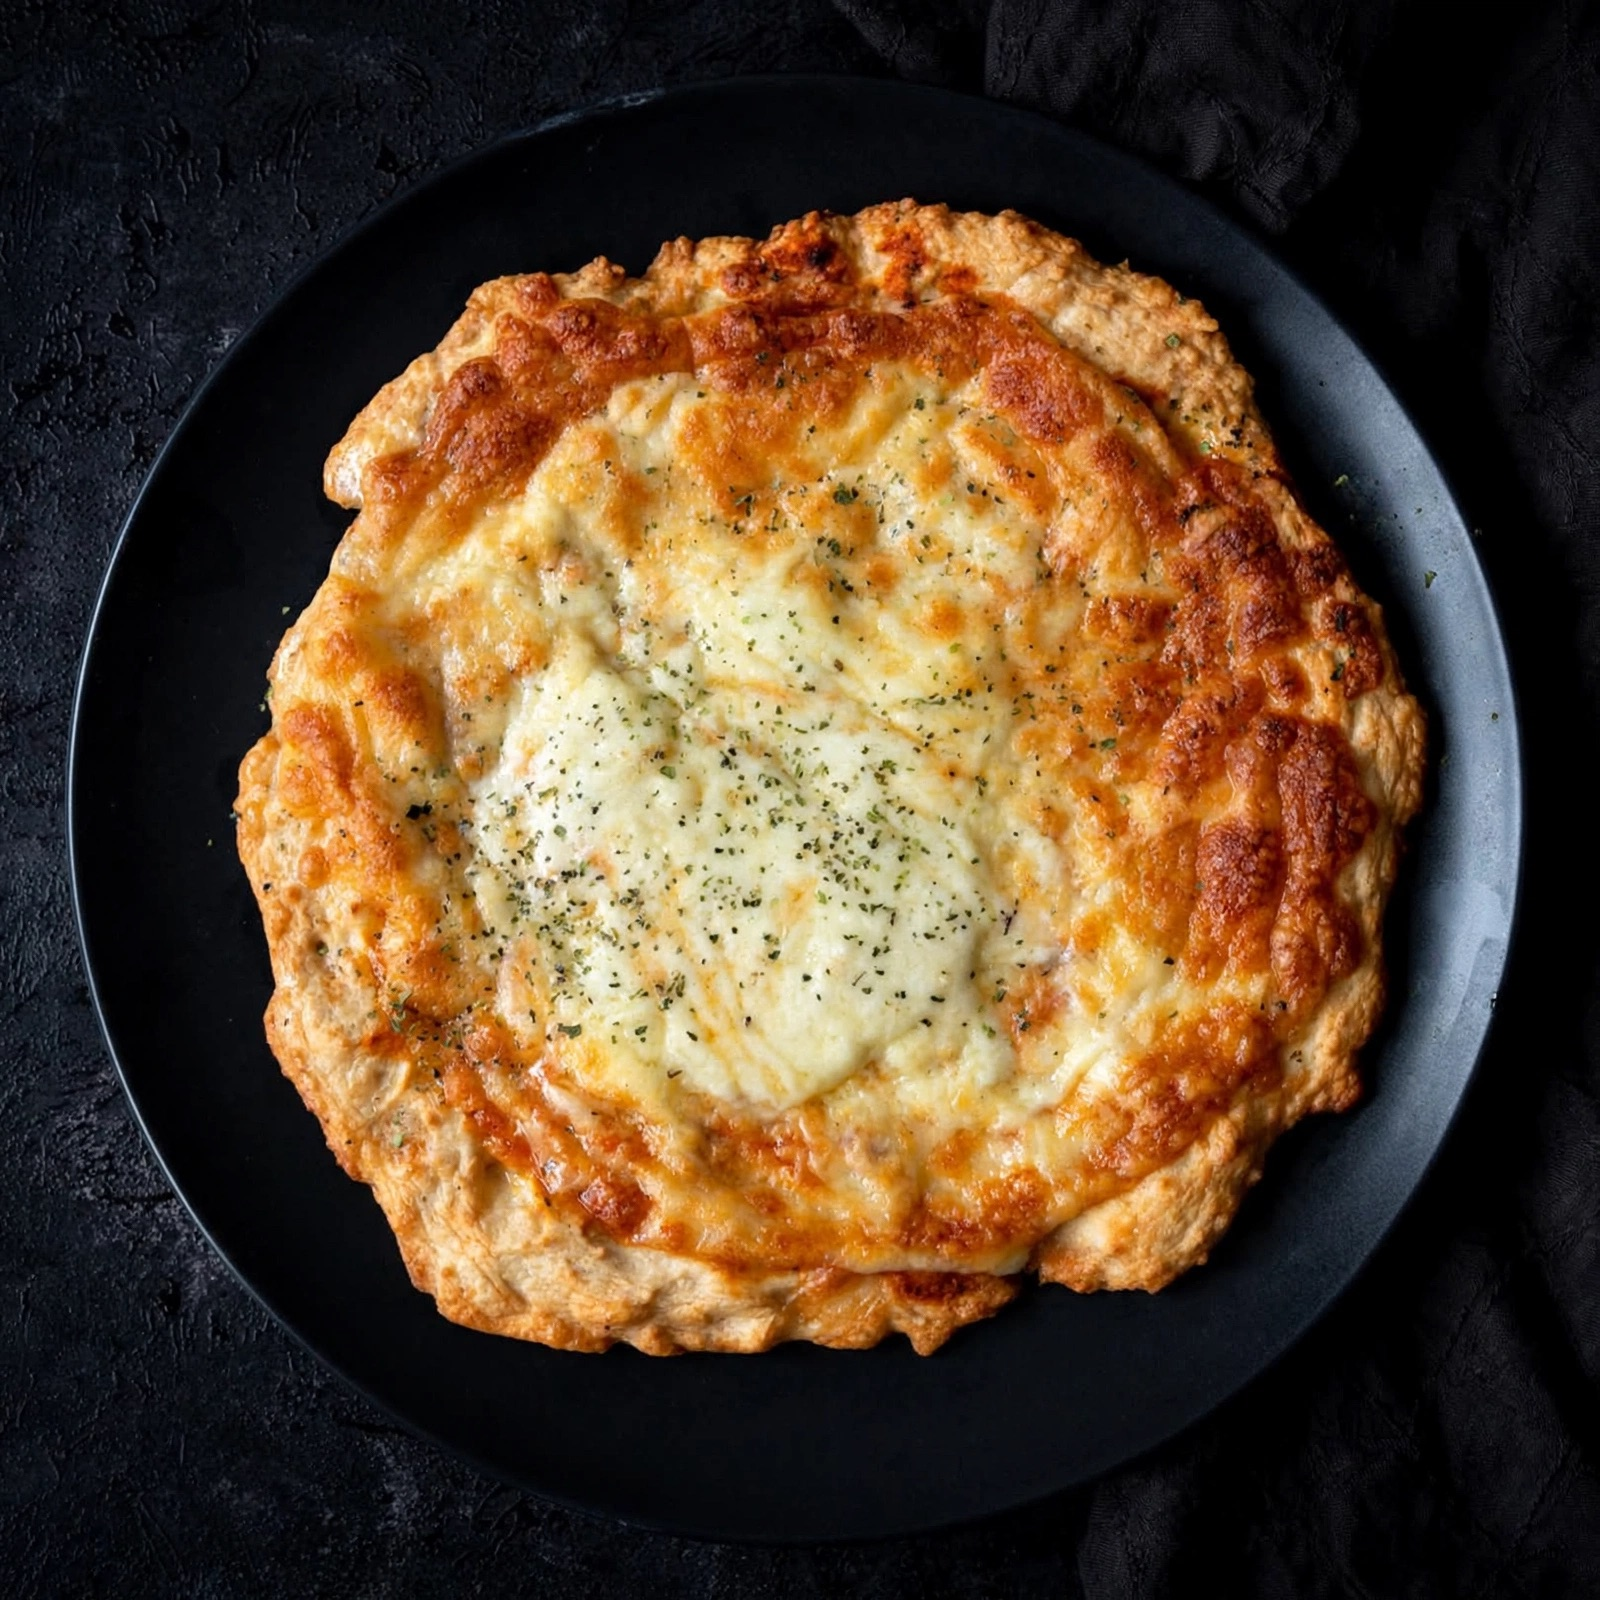
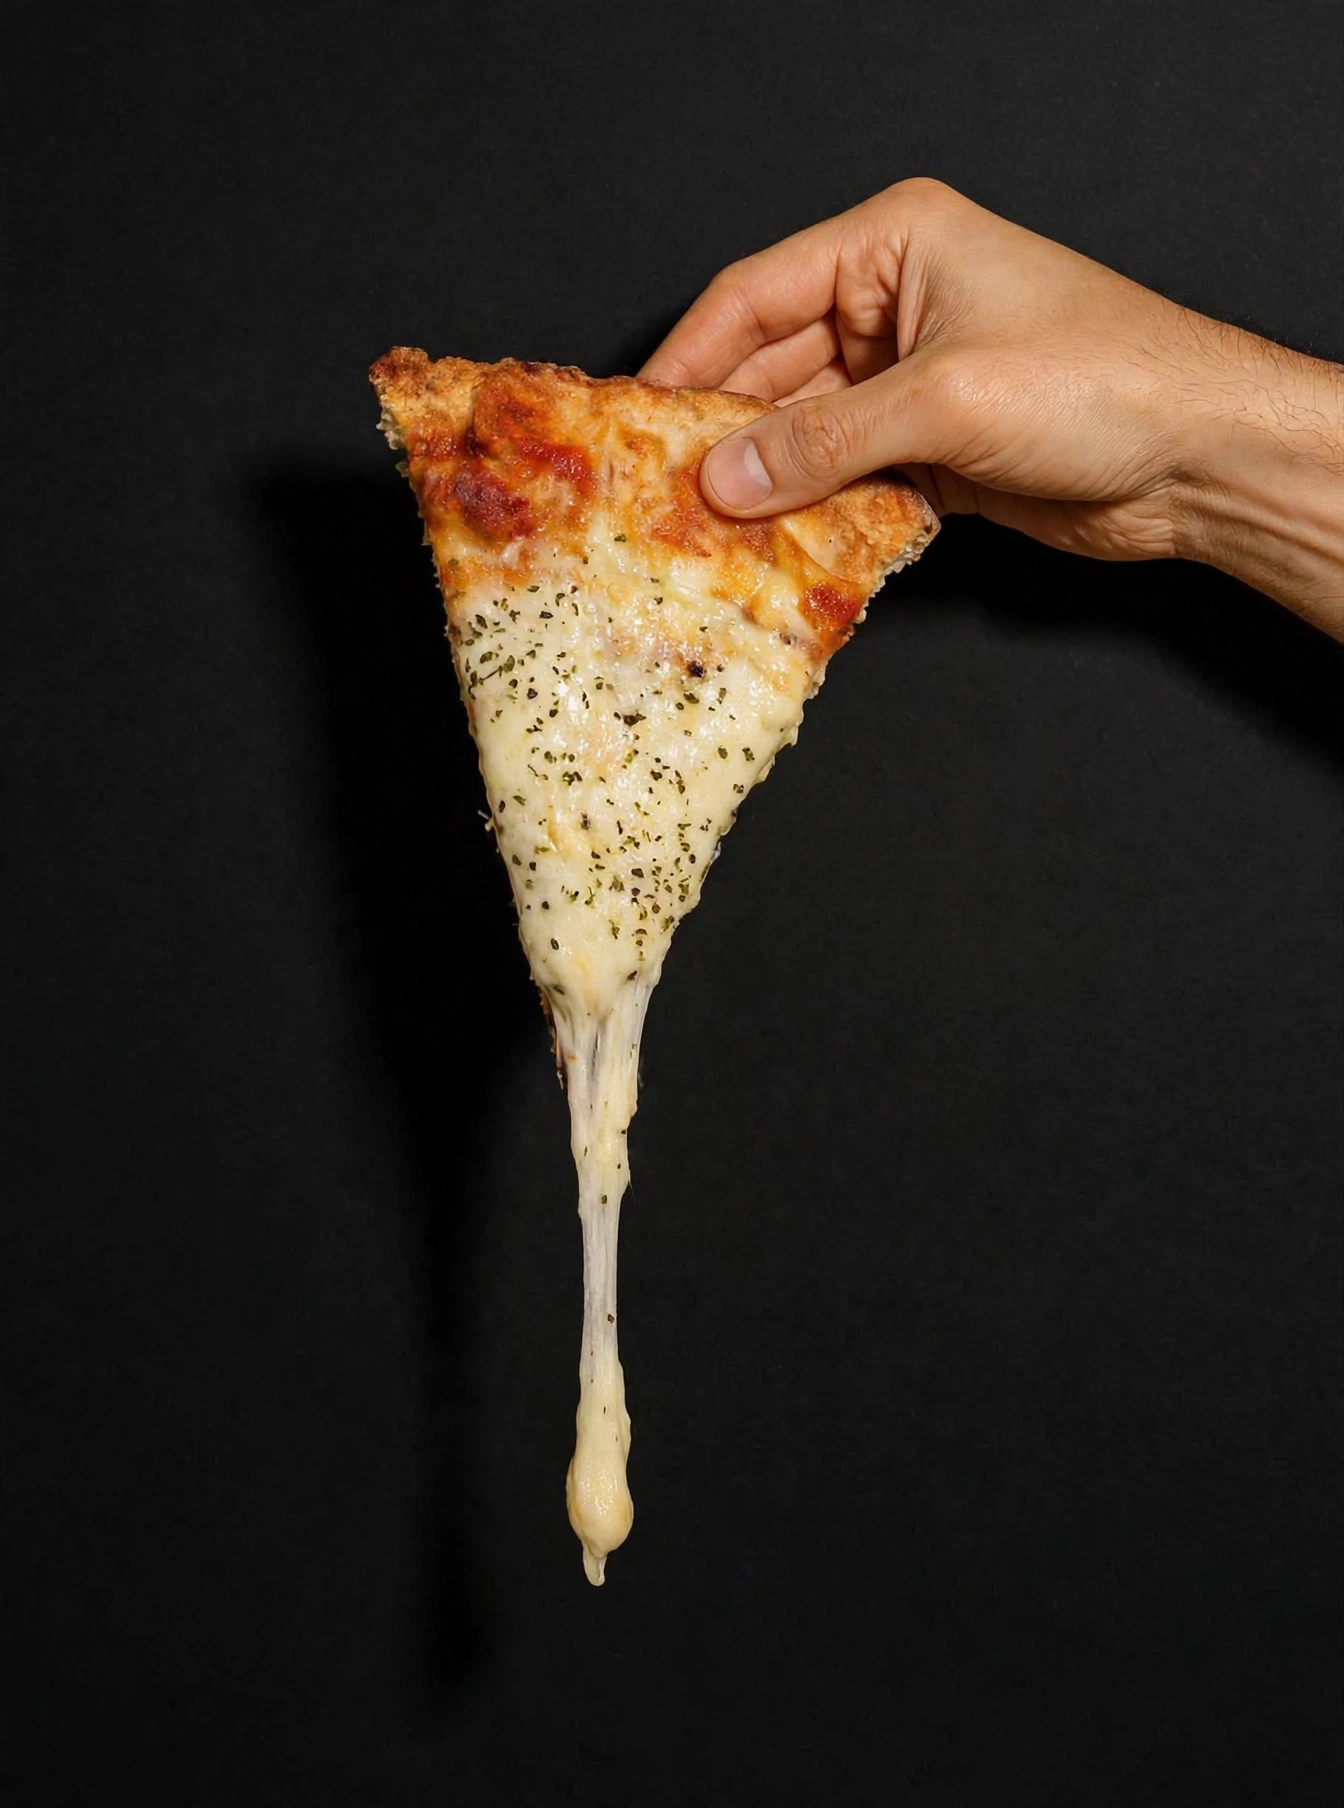
Add files via upload

diff --git a/index.html b/index.html
@@ -3,7 +3,7 @@
 <head>
 <meta charset="UTF-8">
 <meta name="viewport" content="width=device-width, initial-scale=1.0">
-<title>Fina Protein Lab — PIZZA / 101 · Pizza keto alta en proteína</title>
+<title>Fina Protein Lab — PIZZA / 001 · Pizza keto alta en proteína</title>
 <link rel="preconnect" href="https://fonts.googleapis.com">
 <link rel="preconnect" href="https://fonts.gstatic.com" crossorigin>
 <link href="https://fonts.googleapis.com/css2?family=Archivo:wght@400;500;600;700;800;900&family=IBM+Plex+Mono:wght@400;500;600;700&family=Inter:wght@400;500;600&display=swap" rel="stylesheet">
@@ -13,8 +13,8 @@
     --charcoal-2:#3B332D;
     --cream:#F5EEE1;
     --cream-2:#EFE6D3;
-    --red:#C1502E;
-    --red-dark:#9C3E24;
+    --red:#C6402A;
+    --red-dark:#9E3322;
     --grey-mid:#8C8177;
     --line:#E4D8C3;
   }
@@ -136,23 +136,26 @@
 
   /* NUTRITION STATS */
   .nutri{background:var(--charcoal); color:var(--cream);}
-  .nutri-grid{display:grid; grid-template-columns:repeat(6,1fr); gap:2px; background:rgba(245,238,225,0.1); border-radius:24px; overflow:hidden;}
-  .nutri-cell{background:var(--charcoal); padding:32px 26px; position:relative;}
-  .nutri-cell.hero{grid-column:span 3; background:var(--red); padding:38px 30px;}
-  .nutri-cell.low{grid-column:span 3; background:rgba(245,238,225,0.06); border:1.5px solid rgba(193,80,46,0.55);}
-  .nutri-cell.small{grid-column:span 2;}
+  .nutri-hero-row{display:grid; grid-template-columns:1fr 1fr; gap:2px; background:rgba(245,238,225,0.1); border-radius:20px 20px 0 0; overflow:hidden;}
+  .nutri-mini-row{display:grid; grid-template-columns:repeat(3,1fr); gap:2px; background:rgba(245,238,225,0.1); border-radius:0 0 20px 20px; overflow:hidden; margin-top:2px;}
+  .nutri-cell{background:var(--charcoal); padding:30px 24px; position:relative;}
+  .nutri-cell.hero{background:var(--red); padding:34px 26px;}
+  .nutri-cell.low{background:rgba(245,238,225,0.06); border:1.5px solid rgba(193,80,46,0.55);}
+  .nutri-cell.small{padding:22px 16px; text-align:center;}
   .nutri-cell .tag{
     display:inline-block; font-size:10.5px; font-weight:700; text-transform:uppercase; letter-spacing:0.06em;
     padding:4px 10px; border-radius:100px; margin-bottom:14px;
   }
   .nutri-cell.hero .tag{background:rgba(245,238,225,0.22); color:var(--cream);}
   .nutri-cell.low .tag{background:rgba(193,80,46,0.16); color:var(--red);}
-  .nutri-cell .n{font-family:'IBM Plex Mono'; font-size:34px; font-weight:700; line-height:1;}
-  .nutri-cell.hero .n{font-size:52px;}
-  .nutri-cell.low .n{font-size:40px; color:var(--cream);}
+  .nutri-cell .n{font-family:'IBM Plex Mono'; font-size:32px; font-weight:700; line-height:1;}
+  .nutri-cell.hero .n{font-size:46px;}
+  .nutri-cell.low .n{font-size:38px; color:var(--cream);}
+  .nutri-cell.small .n{font-size:22px;}
   .nutri-cell .l{font-size:12px; text-transform:uppercase; letter-spacing:0.06em; color:rgba(245,238,225,0.55); margin-top:10px;}
   .nutri-cell.hero .l{color:rgba(245,238,225,0.88); font-size:13px;}
   .nutri-cell.low .l{color:rgba(245,238,225,0.7);}
+  .nutri-cell.small .l{font-size:10.5px; margin-top:6px;}
   .nutri-foot{font-size:12px; color:rgba(245,238,225,0.45); margin-top:22px; font-family:'IBM Plex Mono';}
 
   /* INGREDIENTES */
@@ -165,16 +168,18 @@
   .ing-icon svg{width:22px; height:22px;}
   .ing-item h4{font-size:15.5px; font-weight:700;}
   .ing-item p{font-size:13px; color:var(--grey-mid); margin-top:2px;}
+  .ing-dark{background:var(--charcoal); color:var(--cream);}
   .ing-chips{display:flex; flex-wrap:wrap; gap:10px;}
   .ing-chip{
-    background:var(--cream-2); border-radius:100px; padding:10px 16px;
-    font-size:13.5px; font-weight:600;
+    background:rgba(245,238,225,0.09); border:1px solid rgba(245,238,225,0.14);
+    border-radius:100px; padding:10px 16px;
+    font-size:13.5px; font-weight:600; color:var(--cream);
   }
   .allergen-note{
     display:flex; align-items:center; gap:8px;
-    color:var(--grey-mid); margin-top:20px; font-size:12px; font-weight:500;
+    color:rgba(245,238,225,0.5); margin-top:20px; font-size:12px; font-weight:500;
   }
-  .allergen-note svg{flex-shrink:0; opacity:0.6;}
+  .allergen-note svg{flex-shrink:0; opacity:0.7;}
 
   /* SABORES */
   .flavor-grid{display:grid; grid-template-columns:repeat(4,1fr); gap:18px;}
@@ -251,8 +256,13 @@
   .faq-a p{padding-bottom:22px; font-size:14px; color:var(--grey-mid); line-height:1.6; max-width:600px;}
 
   /* CTA FINAL */
-  .cta-final{background:var(--charcoal); color:var(--cream); border-radius:32px; text-align:center; padding:52px 40px; position:relative; overflow:hidden;}
-  .cta-final .stamp{position:absolute; top:-30px; left:-30px; width:150px; height:150px; opacity:0.9;}
+  .cta-final{
+    background:
+      linear-gradient(180deg, rgba(46,38,32,0.88), rgba(46,38,32,0.94)),
+      url('pizza-foto-cta.jpg') center 25% / cover no-repeat, var(--charcoal);
+    color:var(--cream); border-radius:32px; text-align:center; padding:64px 40px; position:relative;
+  }
+  .cta-final .stamp{position:absolute; top:-16px; left:-16px; width:130px; height:130px; opacity:0.95;}
   .cta-final h2{font-size:clamp(30px,4vw,44px); font-weight:800; margin-bottom:14px; letter-spacing:-0.02em;}
   .cta-final p{color:rgba(245,238,225,0.62); margin-bottom:30px; font-size:15.5px;}
 
@@ -267,10 +277,7 @@
 
   @media (max-width: 900px){
     .hero-grid{grid-template-columns:1fr;}
-    .hero-photo{order:-1; max-width:340px; margin:0 auto;}
-    .nutri-grid{grid-template-columns:repeat(2,1fr);}
-    .nutri-cell.hero, .nutri-cell.low{grid-column:span 2;}
-    .nutri-cell.small{grid-column:span 1;}
+    .hero-photo{max-width:280px; margin:0 auto;}
     .ing-grid{grid-template-columns:1fr;}
     .flavor-grid{grid-template-columns:repeat(2,1fr);}
     .compare-grid{grid-template-columns:1fr; gap:36px;}
@@ -288,13 +295,13 @@
   .marquee-track{
     display:inline-flex; align-items:center;
     animation:marquee 22s linear infinite;
-    padding:9px 0;
+    padding:6px 0;
   }
   .marquee-track span{
-    font-size:12.5px; font-weight:700; text-transform:uppercase; letter-spacing:0.06em;
-    padding:0 28px; display:inline-flex; align-items:center; gap:10px;
+    font-size:10.5px; font-weight:700; text-transform:uppercase; letter-spacing:0.05em;
+    padding:0 22px; display:inline-flex; align-items:center; gap:8px; opacity:0.92;
   }
-  .marquee-track span::after{content:'✦'; opacity:0.6; margin-left:28px;}
+  .marquee-track span::after{content:'✦'; opacity:0.5; margin-left:22px; font-size:9px;}
   @keyframes marquee{
     from{transform:translateX(0);}
     to{transform:translateX(-50%);}
@@ -306,15 +313,17 @@
   /* COUNTDOWN */
   .countdown-bar{
     background:var(--charcoal); color:var(--cream);
-    text-align:center; padding:11px 20px;
-    font-size:12.5px; font-weight:600;
+    text-align:center; padding:13px 20px;
+    font-size:14px; font-weight:600;
+    border-bottom:1px solid rgba(245,238,225,0.1);
   }
   .countdown-bar b{
     font-family:'IBM Plex Mono'; font-weight:700; color:var(--red);
-    letter-spacing:0.02em;
+    letter-spacing:0.02em; font-size:14.5px;
   }
   @media (max-width:600px){
-    .countdown-bar{font-size:11.5px; padding:10px 14px;}
+    .countdown-bar{font-size:12.5px; padding:11px 14px;}
+    .countdown-bar b{font-size:13px;}
   }
 </style>
 </head>
@@ -333,15 +342,14 @@
   </div>
 </div>
 
-<div class="countdown-bar" id="countdown-bar">Pedí antes de <b id="countdown-time">—</b> y recibilo el miércoles <b id="delivery-date">—</b></div>
-
 <header>
+  <div class="countdown-bar" id="countdown-bar">Pedí antes de <b id="countdown-time">—</b> y recibilo el miércoles <b id="delivery-date">—</b></div>
   <div class="nav wrap">
     <div class="logo">
       <div class="mark">
-        <svg viewBox="0 0 24 24" fill="none"><path d="M12 3 L20 19 Q12 22 4 19 Z" fill="#F5EEE1"/><circle cx="12" cy="10" r="1.3" fill="#C1502E"/><circle cx="14.5" cy="14.5" r="1.3" fill="#C1502E"/><circle cx="9.5" cy="15" r="1.3" fill="#C1502E"/></svg>
+        <svg viewBox="0 0 24 24" fill="none"><path d="M12 3 L20 19 Q12 22 4 19 Z" fill="#F5EEE1"/><circle cx="12" cy="10" r="1.3" fill="#C6402A"/><circle cx="14.5" cy="14.5" r="1.3" fill="#C6402A"/><circle cx="9.5" cy="15" r="1.3" fill="#C6402A"/></svg>
       </div>
-      <div class="word">Fina Protein Lab<small>PIZZA / 101</small></div>
+      <div class="word">Fina Protein Lab<small>PIZZA / 001</small></div>
     </div>
     <nav class="navlinks">
       <a href="#nutricion">Macros</a>
@@ -357,7 +365,7 @@
   <section class="hero">
     <div class="wrap hero-grid">
       <div>
-        <div class="eyebrow"><span class="dot"></span>PIZZA / 101 · Keto · Alta en proteína</div>
+        <div class="eyebrow"><span class="dot"></span>PIZZA / 001 · Keto · Alta en proteína</div>
         <h1>Comé pizza.<br><span class="accent">Sin culpa.</span></h1>
         <p class="lead">Pizza formulada para rendir en tu plan: mucha proteína, pocos carbs e ingredientes que todos conocemos. Aproximadamente 450 calorías por pizza. La pizza que no tenés que justificar.</p>
         <div class="hero-ctas">
@@ -374,7 +382,7 @@
 
       <div class="hero-photo">
         <div class="photo-card">
-          <img src="pizza-foto-hero.jpg" alt="Fina Protein Lab — PIZZA / 101 recién horneada">
+          <img src="pizza-foto-hero.jpg" alt="Fina Protein Lab — PIZZA / 001 recién horneada">
           <div class="float-tag">
             <div>
               <div class="n">62g</div>
@@ -383,14 +391,14 @@
           </div>
         </div>
         <svg class="stamp" viewBox="0 0 200 200">
-          <circle cx="100" cy="100" r="92" fill="#C1502E"/>
+          <circle cx="100" cy="100" r="92" fill="#C6402A"/>
           <path id="circlePath" d="M 100,100 m -70,0 a 70,70 0 1,1 140,0 a 70,70 0 1,1 -140,0" fill="none"/>
           <text font-family="Archivo, sans-serif" font-size="13" font-weight="700" fill="#F5EEE1" letter-spacing="2.5">
             <textPath href="#circlePath" startOffset="0%">SIN CULPA · SIN CULPA · SIN CULPA · </textPath>
           </text>
           <circle cx="100" cy="100" r="34" fill="#F5EEE1"/>
           <g transform="translate(100,100) scale(1.7) translate(-12,-12)">
-            <path d="M12 3 L20 19 Q12 22 4 19 Z" fill="#C1502E"/>
+            <path d="M12 3 L20 19 Q12 22 4 19 Z" fill="#C6402A"/>
             <circle cx="12" cy="10" r="1.3" fill="#F5EEE1"/>
             <circle cx="14.5" cy="14.5" r="1.3" fill="#F5EEE1"/>
             <circle cx="9.5" cy="15" r="1.3" fill="#F5EEE1"/>
@@ -408,7 +416,7 @@
         <h2>Los números, bien a la vista.</h2>
         <p>Por pizza (270 g). Sin sorpresas, sin letra chica.</p>
       </div>
-      <div class="nutri-grid">
+      <div class="nutri-hero-row">
         <div class="nutri-cell hero">
           <span class="tag">★ Muy alto</span>
           <div class="n">62g</div>
@@ -419,6 +427,8 @@
           <div class="n">3,3g</div>
           <div class="l">Carbohidratos</div>
         </div>
+      </div>
+      <div class="nutri-mini-row">
         <div class="nutri-cell small"><div class="n">453</div><div class="l">Kcal</div></div>
         <div class="nutri-cell small"><div class="n">0,7g</div><div class="l">Azúcares totales</div></div>
         <div class="nutri-cell small"><div class="n">21g</div><div class="l">Grasas totales</div></div>
@@ -428,16 +438,16 @@
   </section>
 
   <!-- INGREDIENTES -->
-  <section id="ingredientes">
+  <section id="ingredientes" class="ing-dark">
     <div class="wrap">
-      <div class="section-head">
+      <div class="section-head on-dark">
         <div class="kicker"><span class="dot"></span>Qué lleva adentro</div>
         <h2>Ingredientes reales.</h2>
         <p>Sin harinas de trigo. La masa se construye a base de proteína real.</p>
       </div>
       <div class="ing-grid">
         <div class="ing-photo">
-          <img src="pizza-foto-ingredientes.jpg" alt="Fina Protein Lab — PIZZA / 101">
+          <img src="pizza-foto-ingredientes.jpg" alt="Fina Protein Lab — PIZZA / 001">
         </div>
         <div>
           <div class="ing-chips">
@@ -452,7 +462,7 @@
             <span class="ing-chip">Pimienta</span>
           </div>
           <div class="allergen-note">
-            <svg width="14" height="14" viewBox="0 0 24 24" fill="none"><path d="M12 3 L22 20 H2 Z" stroke="#8C8177" stroke-width="1.6" stroke-linejoin="round"/><path d="M12 9.5v5" stroke="#8C8177" stroke-width="1.6" stroke-linecap="round"/><circle cx="12" cy="17" r="0.9" fill="#8C8177"/></svg>
+            <svg width="14" height="14" viewBox="0 0 24 24" fill="none"><path d="M12 3 L22 20 H2 Z" stroke="#B0A797" stroke-width="1.6" stroke-linejoin="round"/><path d="M12 9.5v5" stroke="#B0A797" stroke-width="1.6" stroke-linecap="round"/><circle cx="12" cy="17" r="0.9" fill="#B0A797"/></svg>
             Contiene huevo y derivados de leche
           </div>
         </div>
@@ -531,7 +541,7 @@
     <div class="wrap">
       <div class="cta-final">
         <svg class="stamp" viewBox="0 0 200 200">
-          <circle cx="100" cy="100" r="92" fill="#C1502E"/>
+          <circle cx="100" cy="100" r="92" fill="#C6402A"/>
           <path id="circlePath2" d="M 100,100 m -70,0 a 70,70 0 1,1 140,0 a 70,70 0 1,1 -140,0" fill="none"/>
           <text font-family="Archivo, sans-serif" font-size="13" font-weight="700" fill="#F5EEE1" letter-spacing="2.5">
             <textPath href="#circlePath2" startOffset="0%">SIN CULPA · SIN CULPA · SIN CULPA · </textPath>
@@ -551,9 +561,9 @@
     <div class="foot-grid">
       <div class="logo">
         <div class="mark">
-          <svg viewBox="0 0 24 24" fill="none"><path d="M12 3 L20 19 Q12 22 4 19 Z" fill="#F5EEE1"/><circle cx="12" cy="10" r="1.3" fill="#C1502E"/><circle cx="14.5" cy="14.5" r="1.3" fill="#C1502E"/><circle cx="9.5" cy="15" r="1.3" fill="#C1502E"/></svg>
+          <svg viewBox="0 0 24 24" fill="none"><path d="M12 3 L20 19 Q12 22 4 19 Z" fill="#F5EEE1"/><circle cx="12" cy="10" r="1.3" fill="#C6402A"/><circle cx="14.5" cy="14.5" r="1.3" fill="#C6402A"/><circle cx="9.5" cy="15" r="1.3" fill="#C6402A"/></svg>
         </div>
-        <div class="word">Fina Protein Lab<small>PIZZA / 101</small></div>
+        <div class="word">Fina Protein Lab<small>PIZZA / 001</small></div>
       </div>
       <div class="foot-links">
         <a href="#preguntas">Preguntas</a>
@@ -561,7 +571,7 @@
         <a href="https://wa.me/5491173609839" target="_blank" rel="noopener">WhatsApp</a>
       </div>
     </div>
-    <div class="foot-fine">© 2026 Fina Protein Lab — Buenos Aires, Argentina. PIZZA / 101, alta en proteína, baja en carbohidratos.</div>
+    <div class="foot-fine">© 2026 Fina Protein Lab — Buenos Aires, Argentina. PIZZA / 001, alta en proteína, baja en carbohidratos.</div>
   </div>
 </footer>
 
